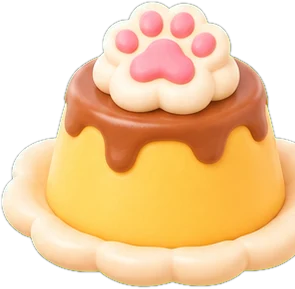
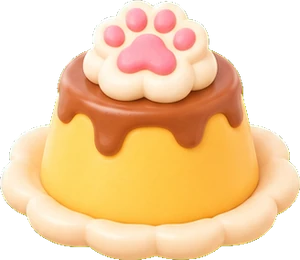
地瓜乾、寵物布丁、貓掌沙發重新去背
Claude-Session: https://claude.ai/code/session_012PDdvi2k8upU5bkQdz1Zi2

diff --git a/index.html b/index.html
@@ -3332,7 +3332,7 @@ const ITEMS={
 };
 const TREAT_MAX=3,TOY_MAX=20;
 // v2.87：重新去背的圖（原本被切到），加版本號讓手機重抓
-setTimeout(()=>['slide','teepee','rainbowball','unicorn','trash'].forEach(k=>{if(ITEMS[k]&&!ITEMS[k].img)ITEMS[k].img=`assets/item_${k}.webp?v=2`}),0);
+setTimeout(()=>['slide','teepee','rainbowball','unicorn','trash','sweetpotato','pudding','sofa'].forEach(k=>{if(ITEMS[k]&&!ITEMS[k].img)ITEMS[k].img=`assets/item_${k}.webp?v=2`}),0);
 
 // ---------- v1.48 新玩具 ----------
 Object.assign(ITEMS,{
@@ -6580,7 +6580,7 @@ function announceLetters(){if(!DB.me)return;let seen=[];try{seen=JSON.parse(loca
     sfx('gift');$('#lgopen').onclick=()=>openLetter(nw[0].id,()=>$('#bell').click())};
   setTimeout(go,1800)}
 // ================= 自動更新：發現新版本就重新載入 =================
-const APP_VER='v2.87';
+const APP_VER='v2.88';
 function checkUpdate(){
   if(!/^https?:/.test(location.protocol)||!API_URL)return;
   if(!$('#modal').classList.contains('hidden'))return; // 正在填表單時不打斷

diff --git a/CLAUDE.md b/CLAUDE.md
@@ -31,8 +31,8 @@
 - commit 訊息結尾加 Co-Authored-By 與 Claude-Session 行；不要在 commit / PR 寫模型名稱。
 
 ## 目前狀態（2026-11）
-- 前端 v2.87、後端 v72（都已上線，2026-11-25）。
-- v2.87：溜滑梯、帳篷小屋、彩虹大球、獨角獸搖搖馬、垃圾堆從島主給的原圖重新去背（`?v=2` 讓手機重抓）。地瓜乾、寵物布丁、貓掌沙發還缺原圖。聖誕樹是限定玩具（卡包／毛二街補貨才有），不在商店。
+- 前端 v2.88、後端 v72（都已上線，2026-11-25）。
+- v2.87：溜滑梯、帳篷小屋、彩虹大球、獨角獸搖搖馬、垃圾堆從島主給的原圖重新去背（`?v=2` 讓手機重抓）。v2.88 地瓜乾、寵物布丁、貓掌沙發也重新去背了。聖誕樹是限定玩具（卡包／毛二街補貨才有），不在商店。
 - v2.86：盲盒店預覽圖沒載到時自動重抓（`imgRetry`，最多 2 次，還不行就藏起來不顯示破圖）。陽光小鎮圖檔本身是好的。（被切到的玩具圖見 v2.87）
 - v2.85：毛二街賣背包東西改成先在畫面上賣好（扣背包、加金幣、臨時上架），shopSell 在背後送；真的失敗才退回（網路太慢不退）。配件、展示櫃的賣法沒改。
 - v2.84：二樓玩具（搬、擺、翻面、收回、層板上放／收）也記 pending（`toyPend(hid+":2")`，`keepToys` 依 key 處理 toys／toys2），同步回來的舊資料不會把畫面蓋回去（島主回報「換玩具會跳回前一個版本」）。
